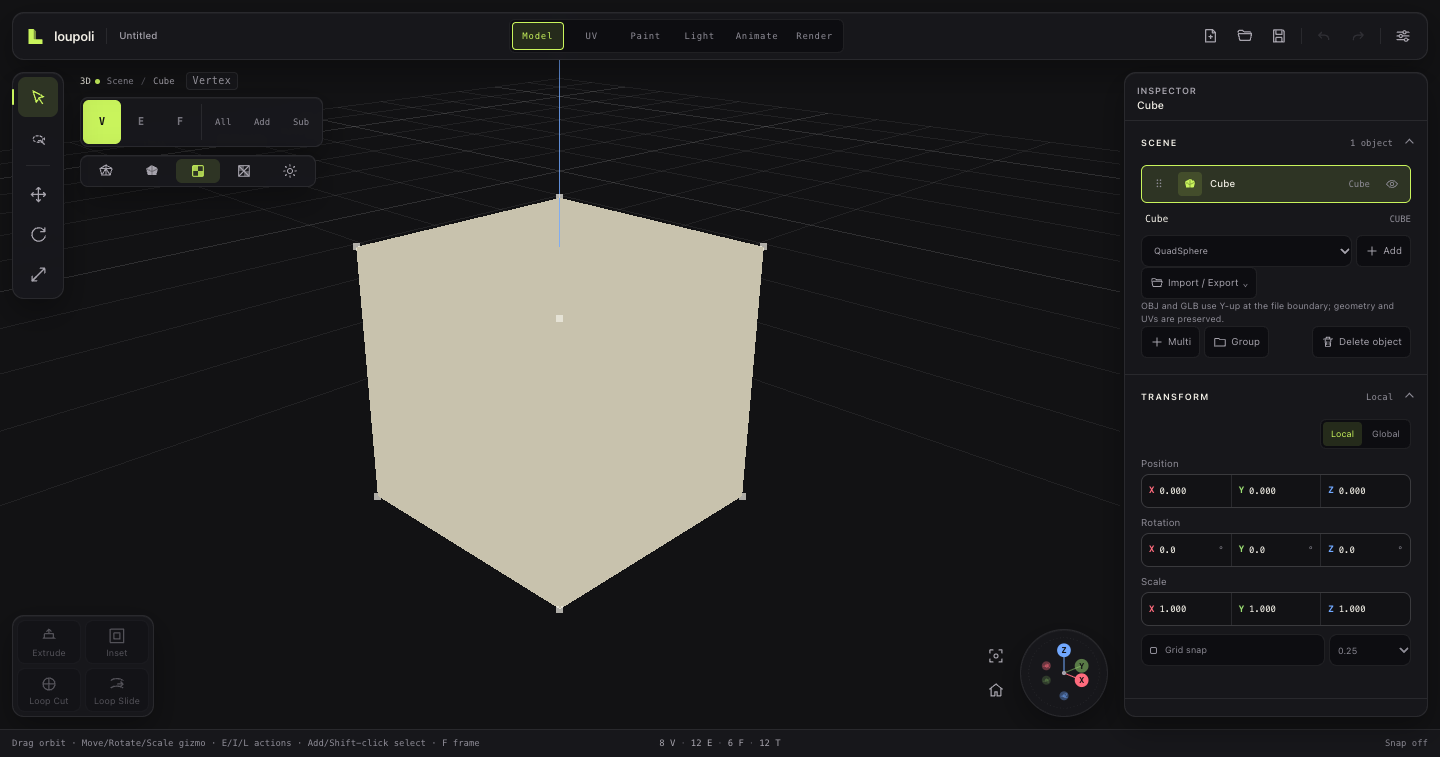
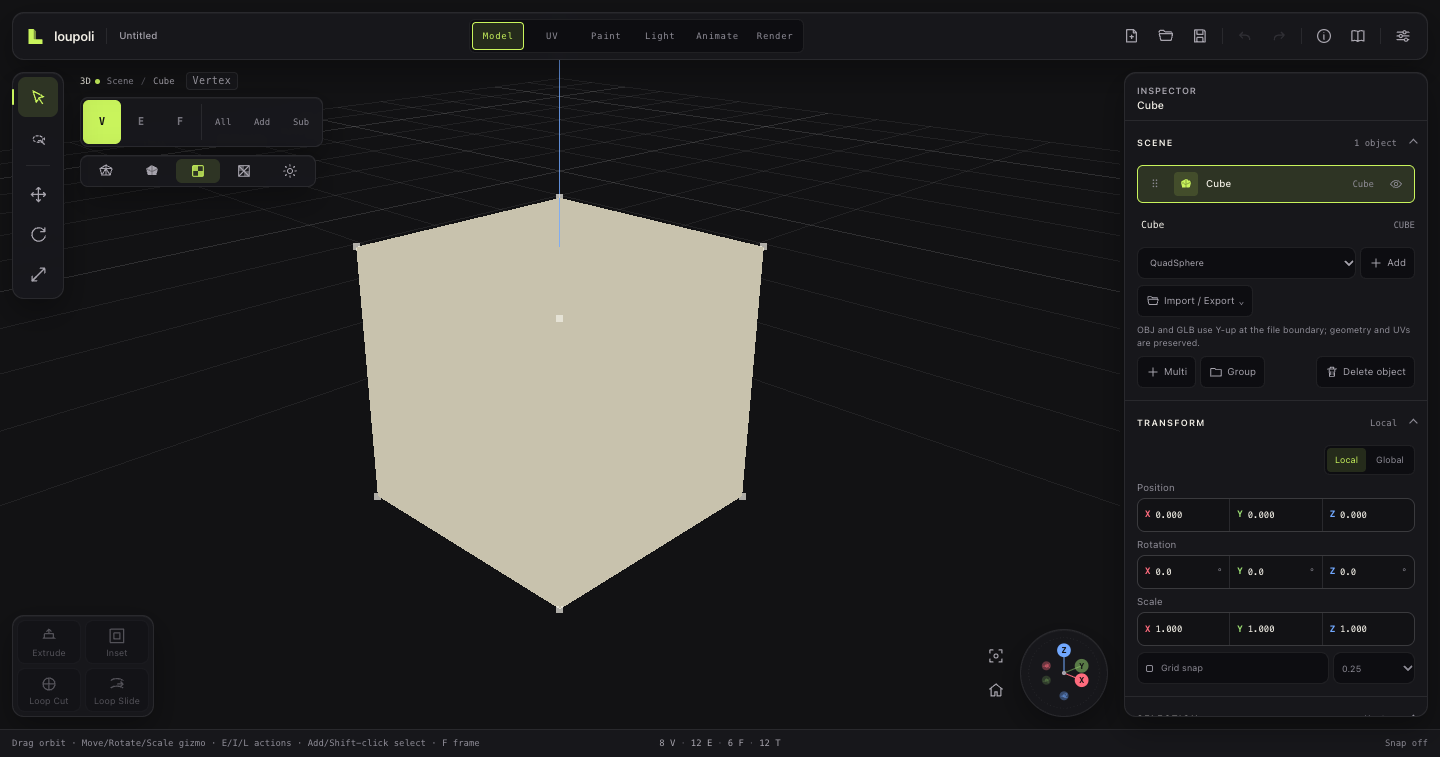
Normalize inspector row rhythm
Moves vertical rhythm into the shared Inspector section body, removes local and browser-default margins in nested groups, and applies a compact 6 px row gap with 12 px section padding across every workspace.

diff --git a/src/lib/ui/Panels/Inspector.svelte b/src/lib/ui/Panels/Inspector.svelte
@@ -2441,7 +2441,7 @@
   .transform-stack {
     display: flex;
     flex-direction: column;
-    gap: var(--field-gap);
+    gap: var(--inspector-row-gap);
   }
 
   .stats {
@@ -2646,10 +2646,13 @@
   .modifier-list {
     display: flex;
     flex-direction: column;
-    gap: var(--space-2);
+    gap: var(--inspector-row-gap);
   }
 
   .modifier-card {
+    display: flex;
+    flex-direction: column;
+    gap: var(--inspector-row-gap);
     padding: var(--space-2);
     border: var(--hairline) solid var(--border-subtle);
     border-radius: var(--radius-md);
@@ -2739,7 +2742,6 @@
     display: grid;
     grid-template-columns: repeat(2, minmax(0, 1fr));
     gap: var(--space-1);
-    margin-top: var(--space-1);
   }
 
   .modifier-field {
@@ -2813,18 +2815,12 @@
   .texture-block {
     display: flex;
     flex-direction: column;
-    gap: var(--field-gap);
-    padding: var(--space-1) 0;
+    gap: var(--inspector-row-gap);
     border-bottom: var(--hairline) solid var(--border-subtle);
-  }
-
-  .texture-block:first-child {
-    padding-top: 0;
   }
 
   .texture-block:last-child {
     border-bottom: 0;
-    padding-bottom: 0;
   }
 
   .texture-asset-meta {
@@ -2839,7 +2835,7 @@
   .texture-property-pair {
     display: flex;
     flex-direction: column;
-    gap: var(--field-gap);
+    gap: var(--inspector-row-gap);
   }
 
   .texture-usage {
@@ -2849,6 +2845,7 @@
   }
 
   .texture-note {
+    margin: 0;
     color: var(--text-tertiary);
     font-family: var(--font-mono);
     font-size: var(--text-2xs);
@@ -2868,7 +2865,6 @@
 
   .light-divider {
     height: var(--hairline);
-    margin: var(--space-1) 0;
     background: var(--border-subtle);
   }
 
@@ -2883,7 +2879,7 @@
     display: flex;
     flex-direction: column;
     align-items: flex-start;
-    gap: var(--space-2);
+    gap: var(--inspector-row-gap);
     color: var(--text-tertiary);
     font-size: var(--text-2xs);
     line-height: var(--leading-ui);
@@ -2979,8 +2975,7 @@
   .shape-key-detail {
     display: flex;
     flex-direction: column;
-    gap: var(--space-2);
-    padding-top: var(--space-1);
+    gap: var(--inspector-row-gap);
   }
 
   .shape-key-primary-actions {
@@ -3031,8 +3026,7 @@
   .module-body {
     display: flex;
     flex-direction: column;
-    gap: var(--field-gap);
-    padding-bottom: var(--space-4);
+    gap: var(--inspector-row-gap);
   }
 
   @media (max-width: 899px) {

diff --git a/src/lib/ui/Panels/InspectorSection.svelte b/src/lib/ui/Panels/InspectorSection.svelte
@@ -40,7 +40,7 @@
     align-items: center;
     gap: var(--space-2);
     min-height: var(--hit-min);
-    padding: 0 var(--space-4);
+    padding: 0 var(--inspector-section-pad);
     color: var(--text-primary);
     cursor: pointer;
     list-style: none;
@@ -95,6 +95,9 @@
   }
 
   .section-body {
-    padding: 0 var(--space-4) var(--space-4);
+    display: flex;
+    flex-direction: column;
+    gap: var(--inspector-row-gap);
+    padding: 0 var(--inspector-section-pad) var(--inspector-section-pad);
   }
 </style>

diff --git a/src/design/tokens.css b/src/design/tokens.css
@@ -90,6 +90,8 @@
   --space-control-gap: var(--space-2);
   --field-gap: var(--space-control-gap);
   --field-label-gap: var(--space-1);
+  --inspector-row-gap: 6px;
+  --inspector-section-pad: var(--space-3);
 
   /* Shape */
   --radius-xs: 4px;

diff --git a/AGENTS.md b/AGENTS.md
@@ -153,7 +153,7 @@ Phase 2, the Phase 3 foundations, and Phase 4 texturing are implemented for brow
 - The single selected vertex uses the same `Vector3Field` as object transforms. UV topology is built from UV points (not mesh vertices), so split UVs select independently and selected UV edges render visibly. UV click-vs-drag resolves no-move clicks to the exact hit while preserving multi-selections for drags.
 - Edge-loop selection is a sticky **Loop** toggle in the Selection Bar, available only in 3D Edge mode; it walks opposite quad edges in both directions and stops at open boundaries or non-quads. The Selection inspector can clear every seam on the active mesh in one undoable command. Camera pan/orbit/zoom preserve selection; only a no-move click/tap on empty viewport space clears it. A selection gesture applies its pick exactly once; pointer-up only resolves the deferred empty-click case. Transparent HUD wrappers never receive pointer events, and pane dividers are bounded to the pane frame. Lasso overlay is clipped to the Viewport Stage.
 - **Sync 3D** is a one-way UV-selection rebuild from the current 3D element selection. It does not move UVs or unwrap: face mode selects all corners of selected faces, edge mode selects endpoint corners, and vertex mode selects all corners incident to selected vertices.
-- Numeric fields share a drag-scrub control: the whole XYZ cell, including the axis badge, is draggable; half a step per pointer pixel, Shift fine mode, one command on release, click-to-type, Enter/Escape. Inspector field rows share `--field-gap` and `--field-label-gap`; module bodies own vertical rhythm and individual fields must not add outer margins. UV numeric fields and modifier count/spacing fields use the same component.
+- Numeric fields share a drag-scrub control: the whole XYZ cell, including the axis badge, is draggable; half a step per pointer pixel, Shift fine mode, one command on release, click-to-type, Enter/Escape. Inspector field rows share `--inspector-row-gap`, `--inspector-section-pad`, and `--field-label-gap`; section bodies own vertical rhythm and individual fields must not add outer margins. UV numeric fields and modifier count/spacing fields use the same component.
 - The dedicated Paint workspace paints the active texture layer directly in texture space, shows a live brush-character preview, writes undoable pixel patches, and Brush/Eraser/line/rectangle/ellipse/screen-gradient projection-paint the active object's bound texture in 3D; Fill rasterizes the hit seam-bounded UV chart into one texture patch.
 - Every Inspector section shares the native `<details>/<summary>` disclosure. Scene, Selection, Brush, and Texture default open, hidden sections preserve their state, and section/sidebar preferences persist in `localStorage`. No UI state enters the project file.
 - Numeric object transforms (position, rotation, scale) through undoable commands; selection overlays follow the node transform. The orientation gizmo supports drag-to-orbit while retaining axis-click snap and center-frame.

diff --git a/docs/DESIGN_SYSTEM.md b/docs/DESIGN_SYSTEM.md
@@ -49,7 +49,7 @@ What that means in practice:
 
 ## 3. Design tokens
 
-Tokens live in `src/design/tokens.css`. Components consume semantic tokens; no component should hard-code palette hex values, spacing numbers, or z-indexes. Inspector field rhythm uses `--field-gap` (8 px) between direct field rows and `--field-label-gap` (4 px) between a vector label and its control.
+Tokens live in `src/design/tokens.css`. Components consume semantic tokens; no component should hard-code palette hex values, spacing numbers, or z-indexes. Inspector field rhythm uses `--inspector-row-gap` (6 px) between direct rows, `--inspector-section-pad` (12 px) for section padding, and `--field-label-gap` (4 px) between a vector label and its control.
 
 ### 3.1 Core CSS
 
@@ -459,7 +459,7 @@ Implemented component files and local patterns:
 | `ActionDock` | 3 | One-shot mesh actions | Bottom-left 2×2 grid, 64×44 minimum targets, contextual disabled states |
 | `ActionHud` | 2 | Action readout | Bottom-center raised pill; drag/exact/release hints |
 | `SliderField`, `SelectField`, `ColorField`, `ActionButton` | 2 | Shared inspector controls | Range with visible value, labeled select, color field, shared control-height action (44px touch) |
-| `Vector3Field` / field rhythm | 2 | Shared field rows | One vector group per row, 4 px label gap, 8 px module-body gap via `--field-gap` / `--field-label-gap` |
+| `Vector3Field` / field rhythm | 2 | Shared field rows | One vector group per row, 4 px label gap, 6 px row/section rhythm via `--inspector-row-gap` / `--field-label-gap`, 12 px section padding |
 | `ThreeDotMenu` / `ActionMenu` / `ActionMenuPanel` | 1 | Shared overflow menus | Standard icon-only overflow wrapper; body-mounted fixed menu so inspector overflow cannot clip it |
 | `ModalDialog` | 5 | Shared native dialog shell | Top-layer `<dialog>`, shared header/close/body/footer, backdrop and Escape handling; `size="full"` fills the app for reference content |
 | `AboutModal` / `DocumentationModal` | 5 | Application bar help | Full-space content, version/attribution/licenses, and tabbed illustrated workspace guides |

diff --git a/docs/UI_RULES.md b/docs/UI_RULES.md
@@ -52,13 +52,13 @@ Every Inspector Section uses `InspectorSection` (`<details>/<summary>`). No cust
 
 All editable numbers use `NumberField`; all editable vectors use `Vector3Field`. Read-only numeric text is not a field and must not look like one. Single-vertex Selection uses `Vector3Field` and commits through an undoable vertex move.
 
-Inspector field rows share one rhythm:
+Inspector field rows share one compact rhythm:
 
-- Module bodies stack direct children with `--field-gap` (8 px). Do not add per-field `margin-top`/`margin-bottom`.
+- Section bodies and module bodies stack direct children with `--inspector-row-gap` (6 px). Section padding is `--inspector-section-pad` (12 px). Do not add per-field `margin-top`/`margin-bottom`.
 - A vector field is one row. Its label-to-control gap is `--field-label-gap` (4 px), matching a field label above its control.
 - Labels use the shared UI label style; numeric prefixes and values remain monospace.
-- Nested lists keep their own compact 2 px row gap. Grouped cards may keep internal gaps but must not add outer margins.
-- Actions use `ActionRow`; they never create a second field-row style.
+- Nested outliner/track lists keep their own 2 px row gap. Grouped cards may keep internal gaps but must not add outer margins.
+- Actions use `ActionRow` with a 4 px internal gap; they never create a second field-row style.
 
 ![Inspector field rhythm](media/inspector-spacing.png)
 
@@ -155,7 +155,7 @@ These are mandatory reuse rules. A new surface that duplicates one of these patt
 ### Controls and rhythm
 
 - Inputs, selects, action buttons, and outliner rows share `--control-h`: 32 px desktop, 44 px touch.
-- Inspector row gaps are 2 px unless a section has a documented grouping reason.
+- Form rows use a 6 px gap; outliner and track-list rows use 2 px; controls inside one action row use 4 px.
 - Inputs and selects must be the same height as adjacent controls; do not put a small input inside a tall row.
 - Use the shared `SliderField`, `SelectField`, `ColorField`, `InlineNameField`, and `NumberField` shapes.
 
